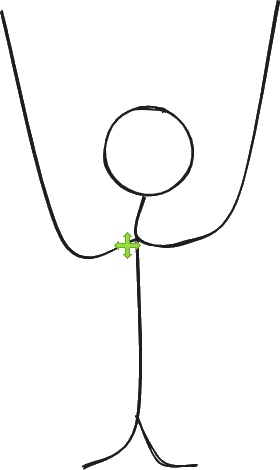
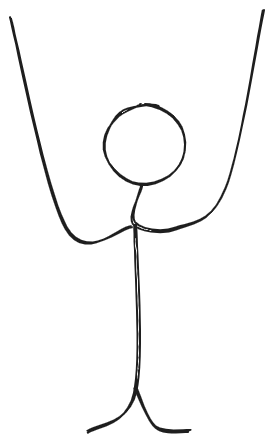
feat: visual Jona

Changed region(s): [[0.0, 0.0, 1.0, 1.0], [0.3504, 0.2059, 0.7007, 0.4118]]

diff --git a/src/App.jsx b/src/App.jsx
@@ -62,16 +62,33 @@ function App() {
   })
 
   return (
-      <main className="container">
+    <div className="cena-container">
+
+      <img 
+        src={jonaPng} 
+        alt="Personagem Jona" 
+        className="personagem" 
+      />
+
+      <div 
+        className="ondas-container" 
+        style={{ backgroundImage: `url(${ondaGif})` }}
+      >
+      </div>
+
+      <main className="ui-container">
+        <h1>SALVE O JONA</h1>
         <Header iniciarJogo={iniciarJogo} statusDoJogo={statusDoJogo}/>
         <Forca erros={letrasIncorretas.length} statusDoJogo={statusDoJogo}/>
         <Palavra palavraSecreta={palavraSecreta} letrasCorretas={letrasCorretas}/>
         <Teclado handleTentativa={handleTentativa} letrasCorretas={letrasCorretas} letrasIncorretas={letrasIncorretas} statusDoJogo={statusDoJogo}/>
-        {statusDoJogo}
+        
         {/* Mensagens de vitória/derrota */}
       {statusDoJogo === 'venceu' && <h2>🎉 Parabéns, você venceu!</h2>}
       {statusDoJogo === 'perdeu' && <h2>❌ Você perdeu! A palavra era: {palavraSecreta}</h2>}
       </main>
+
+    </div>
   )
 }
 

diff --git a/src/App.css b/src/App.css
@@ -9,7 +9,7 @@ body {
 .cena-container {
   width: 100vw;
   height: 100vh;
-  background-color: #001f3f;
+  background-color: rgb(119, 153, 167);
   position: relative; 
   overflow: hidden;
 }
@@ -18,7 +18,7 @@ body {
 .personagem {
   position: absolute;
   left: 50%;
-  top: 55%; /* Um pouco mais para baixo para parecer que está na água */
+  top: 25%; /* Um pouco mais para baixo para parecer que está na água */
   transform: translate(-50%, -50%);
   max-height: 40%;
   z-index: 1; /* Camada mais baixa */
@@ -40,6 +40,7 @@ body {
 .ui-container {
   position: relative; /* Para que o z-index funcione */
   z-index: 3; /* Camada mais alta */
+  top: 40%;
   
   /* Usando Flexbox para organizar o conteúdo da UI verticalmente */
   display: flex;

diff --git a/index.html b/index.html
@@ -5,7 +5,7 @@
     <link rel="icon" type="image/svg+xml" href="/vite.svg" />
     <meta name="viewport" content="width=device-width, initial-scale=1.0" />
     <link rel="stylesheet" href="https://cdn.jsdelivr.net/npm/@picocss/pico@2/css/pico.min.css">
-    <title>dayvm: Jogo da Forca</title>
+    <title>dayvm: SALVE O JONA</title>
   </head>
   <body>
     <div id="root"></div>

diff --git a/src/components/Header.jsx b/src/components/Header.jsx
@@ -1,7 +1,6 @@
 export default function Header({ iniciarJogo, statusDoJogo }) {
     return (
         <header>
-            <h1>Forca Game</h1>
             {statusDoJogo==="home" ? (
                 <button onClick={iniciarJogo}>Iniciar</button>
             ) : (
